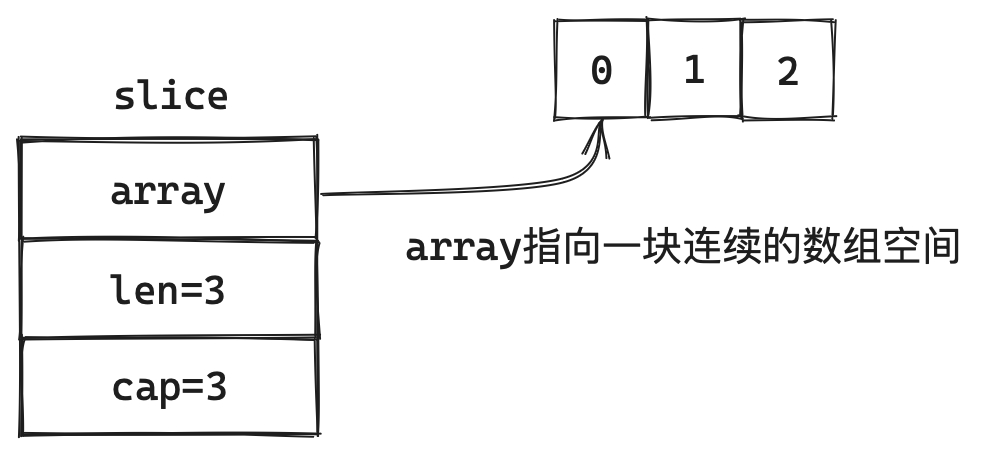
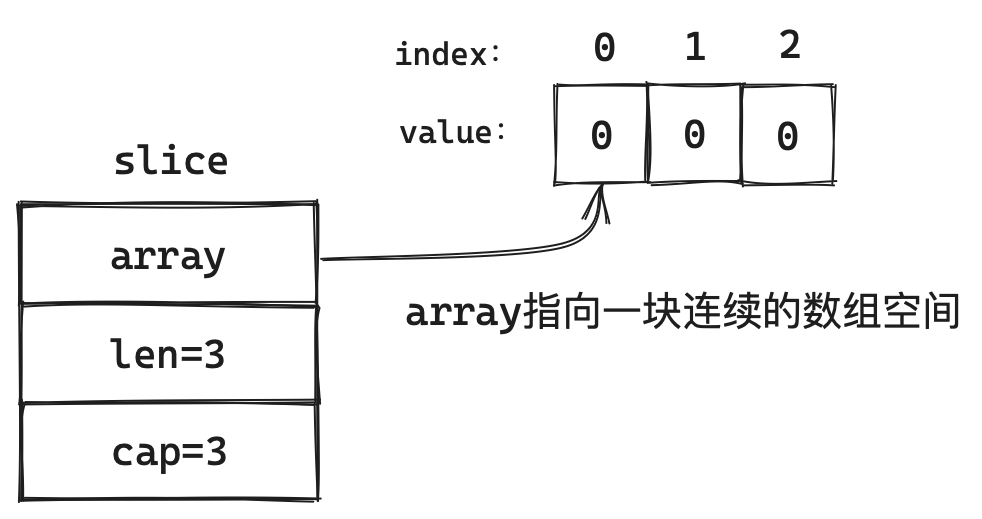
[docs update]: Slice

diff --git a/docs/datastruct.md b/docs/datastruct.md
@@ -35,17 +35,189 @@ Slice的初始化可以有一下几个方式：
 2. 通过已存在的切片或者数组初始化
 3. 通过具体元素初始化
 
-值得注意的是当使用make进行初始化时可以添加len和cap两个参数，而cap可以省略，当cap省略时初始化的切片len和cap的大小是一样的。
-
 ```go
-s := make([]int,3)
+slice := make([]int,3)
 ```
 
-执行以上代码后，可以在内存中得到这样一个Slice
+执行以上代码后，可以在内存中得到这样一个Slice：
 
 ![image-20230825003116774](../res/img/datastruct/make_array.png)
 
+当我们传入的len为3的时候，那么Slice的前三个元素的value都会被初始化为对应 `type` 的0值，如果是复杂类型的数据初始化的值则是 `nil` 。另外需要注意的是我们在make中并没有传入cap的容量，所以这时的cap容量是等于len的，如果我们对其进行append操作就会触发Slice的扩容了。当然我们在make的时候可以传入初始的cap容量：`make([]int,3,6)`那么此时的cap为6，再进行append就不需要额外扩容了。
 
+![image-20230825003116775](../res/img/datastruct/make_array_cap.png)
+
+#### Slice的遍历
+
+上文我们介绍到Slice在初始化的时候cap是可以省略的，但是len可不行。而len这个参数也是Slice最为重要的参数之一，从何说起呢？
+
+通过上文的例子可以看到当我们将len设置为3，cap容量设置为6的时候，在内存中其实已经分配好了，但是如果我们想访问下标为`3`的元素，那就会抛出"下标越界"，这是因为Slice访问元素的边界是由len决定的。尽管内存中已经为`3,4,5`分配好了内存空间，但此时的len为3，那么我们只能访问`0,1,2`这三个下标的元素，同样当我们使用for循环对其进行遍历的时候也是以len作为边界。
+
+#### Slice的扩容规则
+
+由于Slice是在已有的数组空间上进行存储数据，因此就意味着一定会有数据已经存满了数组空间的情况，其实也是对应了`cap == len`的情况，那么此时再进行`append`就需要对Slice进行扩容，底层实现就是重新创建一个足够长的数组，再将原来的数据拷贝过去。
+
+```go
+slice = append(slice,10)
+```
+
+我们在len=3，cap=3的一个Slice上进行添加元素操作就会发生一次扩容。
+
+![image-20230825003116776](../res/img/datastruct/slice_cap_append.png)
+
+当我们进行一次append的时候，可以看到len加了1变成了4，cap容量从3变成了6。这里咱就可以讨论一下Slice的扩容机制啦！在进行append操作时，如果当前容量不足以存储新的元素那么就会发生扩容，扩容会调用一个叫做`growslice`的函数，它返回的是一个新的Slice，所以我们只要分析一下`growslice`的代码就可以知道Slice的扩容规则了。由于1.18版本之后的扩容机制发生了些许改变，因此我们需要分开讨论。
+
+* **1.18之前**
+
+  我们可以具体看一下`growslice()`函数中关于cap的代码：
+
+  ```go
+  // src/runtime/slice.go
+  
+  func growslice(et *_type, old slice, cap int) slice {
+    
+    // ......
+    
+    newcap := old.cap
+  	doublecap := newcap + newcap
+  	if cap > doublecap {
+  		newcap = cap
+  	} else {
+  		if old.cap < 1024 {
+  			newcap = doublecap
+  		} else {
+  			// Check 0 < newcap to detect overflow
+  			// and prevent an infinite loop.
+  			for 0 < newcap && newcap < cap {
+  				newcap += newcap / 4
+  			}
+  			// Set newcap to the requested cap when
+  			// the newcap calculation overflowed.
+  			if newcap <= 0 {
+  				newcap = cap
+  			}
+  		}
+  	}
+    
+  	// ......
+    
+    return slice{p, old.len, newcap}
+  }
+  ```
+
+  这里`growslice`函数中的cap参数指的就是扩容的期望容量，而通过分析代码不难看出：
+
+  * 如果期望容量大于当前容量的2倍，则新Slice的容量就是期望容量的大小
+  * 如果当前容量小于1024，那么新Slice的容量则是原来的2倍
+  * 如果当前容量大于1024，那么新Slice的容量每次增加25%，直到新容量`>=`期望容量
+
+![image-20230825003116777](../res/img/datastruct/1.17growslice.png)
+
+* **1.18之后**
+
+  ```go
+  // src/runtime/slice.go
+  
+  func growslice(et *_type, old slice, cap int) slice {
+    
+    // ......
+    
+  	newcap := old.cap
+  	doublecap := newcap + newcap
+  	if cap > doublecap {
+  		newcap = cap
+  	} else {
+  		const threshold = 256
+  		if old.cap < threshold {
+  			newcap = doublecap
+  		} else {
+  			// Check 0 < newcap to detect overflow
+  			// and prevent an infinite loop.
+  			for 0 < newcap && newcap < cap {
+  				// Transition from growing 2x for small slices
+  				// to growing 1.25x for large slices. This formula
+  				// gives a smooth-ish transition between the two.
+  				newcap += (newcap + 3*threshold) / 4
+  			}
+  			// Set newcap to the requested cap when
+  			// the newcap calculation overflowed.
+  			if newcap <= 0 {
+  				newcap = cap
+  			}
+  		}
+  	}
+  
+    
+  	// ......
+    
+    return slice{p, old.len, newcap}
+  }
+  ```
+
+  在1.18过后原本1024的阈值修改成了256，扩容规则也略微发生了变化：
+
+  * 如果期望容量大于当前容量的2倍，则新Slice的容量就是期望容量的大小
+  * 如果当前容量小于256，那么新Slice的容量则是原来的2倍
+  * 如果当前容量大于256，那么新Slice的容量每次增加`旧容量+3*256`的 25%，直到新容量`>=`期望容量
+
+![image-20230825003116777](../res/img/datastruct/1.18growslice.png)
+
+### 使用细节
+
+了解了底层结构，我们可以使用一个例子来加深一下对Slice印象，这样也可以帮助我们更好地理解Slice。
+
+#### Slice在函数中传递是”值传递“还是”引用传递“？
+
+详见参考：[Slice为什么不能在传参后append？](https://mp.weixin.qq.com/s/OojWQzNjbO6tj8gX2qoGtA)
+
+```go
+func change(course []string) {
+  course[0] = "java"
+}
+func main() {
+  course := []string{"go", "grpc", "orm"}
+  change(course)
+  fmt.Println(course)
+}
+//输出:[java grpc orm]
+```
+
+实践出真知，我们简单写了几行代码，把course传递到change函数中，修改在change中的第0个元素，最后在主函数中将course输出。
+
+可以发现输出的结果是`[java grpc orm]`，course被修改了，所以我们可以初步得出结论：**Slice在Golang中是“引用传递”**。但真的是这样嘛？
+
+```go
+func change(course []string) {
+  course = append(course, "java")
+}
+func main() {
+  course := []string{"go", "grpc", "orm"}
+  change(course)
+  fmt.Println(course)
+}
+//输出:[go grpc orm]
+```
+
+我们简单修改一下代码，在change函数中使用append给course添加一个元素。这时输出的却是`[go grpc orm]`，可我们明明添加了一个元素啊？去哪了呢？
+
+```go
+func change(course []string) {
+  course = append(course, "java")
+  fmt.Println("change :",course)
+}
+```
+
+在change和main中分别打印输出一下，change中输出了`change :[go grpc orm java]`。那么问题来了，为什么change中的course可以正常输出`java`，而main中的course就没有呢？这不是***值传递***的特性嘛，可我们刚刚得出的结论明明是***引用传递***呀！
+
+实际上Slice的函数传递是**值传递**，当我们将course传递给change函数时，拷贝了一份course中的内容到change函数中，此时就有了两个Slice，而Slice中的array是一个指针，因此两个Slice都指向了同一个数组空间。
+
+<img src="../res/img/datastruct/change_course_1.png" alt="image-20230825003116777" style="zoom:35%;" />
+
+
+
+还记得我们讲的扩容机制嘛？当Slice进行扩容的时候，需要重新开辟一块内存空间，将旧值复制进去，因此在change中的course它会开辟一块新的内存用于存放数据，并且指向它，但是main中的course指向的数组地址还是原来的，因此就读不到`java`这个数据了。
+
+<img src="../res/img/datastruct/change_course_append.png" alt="image-20230825003116777" style="zoom:35%;" />
 
 ## String字符串
 
